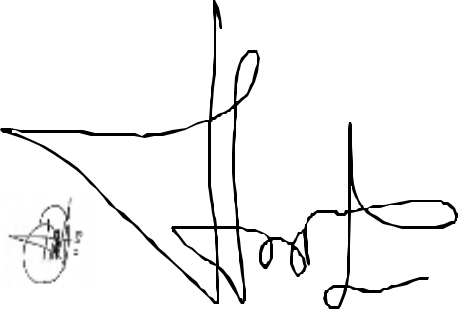
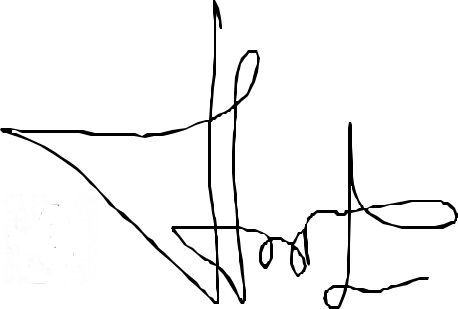
penambahan ttd pada surat permohonan KP

Changed region(s): [[0.0, 0.6408, 0.1834, 0.9029], [0.0306, 0.8447, 0.1223, 0.932]]

diff --git a/resources/views/mahasiswa/pdf/permohonan-fakultas.blade.php b/resources/views/mahasiswa/pdf/permohonan-fakultas.blade.php
@@ -140,7 +140,15 @@
          <br>
          <span style="line-height: 150%;">Fakultas Teknik</span>
          <br>
-         <span style="line-height: 150%;">Universitas Dispanonegoro</span>
+         <span style="line-height: 150%;">Universitas Diponegoro</span>
+         <br>
+         <br>
+         <div style="position:absolute; z-index:-2; margin-top:-5px; margin-bottom:-2em">
+         <img src="{{asset('img/TTD pak adian.png')}}" alt="" style="
+         width:100%;
+         height:125px;
+         ">
+         </div>
          <br>
          <br>
          <br>

diff --git a/resources/views/mahasiswa/pdf/export-permohonan.blade.php b/resources/views/mahasiswa/pdf/export-permohonan.blade.php
@@ -144,7 +144,14 @@
          <br>
          <span style="line-height: 150%;">Fakultas Teknik</span>
          <br>
-         <span style="line-height: 150%;">Universitas Dispanonegoro</span>
+         <span style="line-height: 150%;">Universitas Diponegoro</span>
+         <div style="position:absolute; z-index:-2; margin-top:-5px; margin-bottom:-2em">
+            <img src="{{asset('img/TTD pak adian.png')}}" alt="" style="
+            width:100%;
+            height:125px;
+            ">
+         </div>
+         <br>
          <br>
          <br>
          <br>
